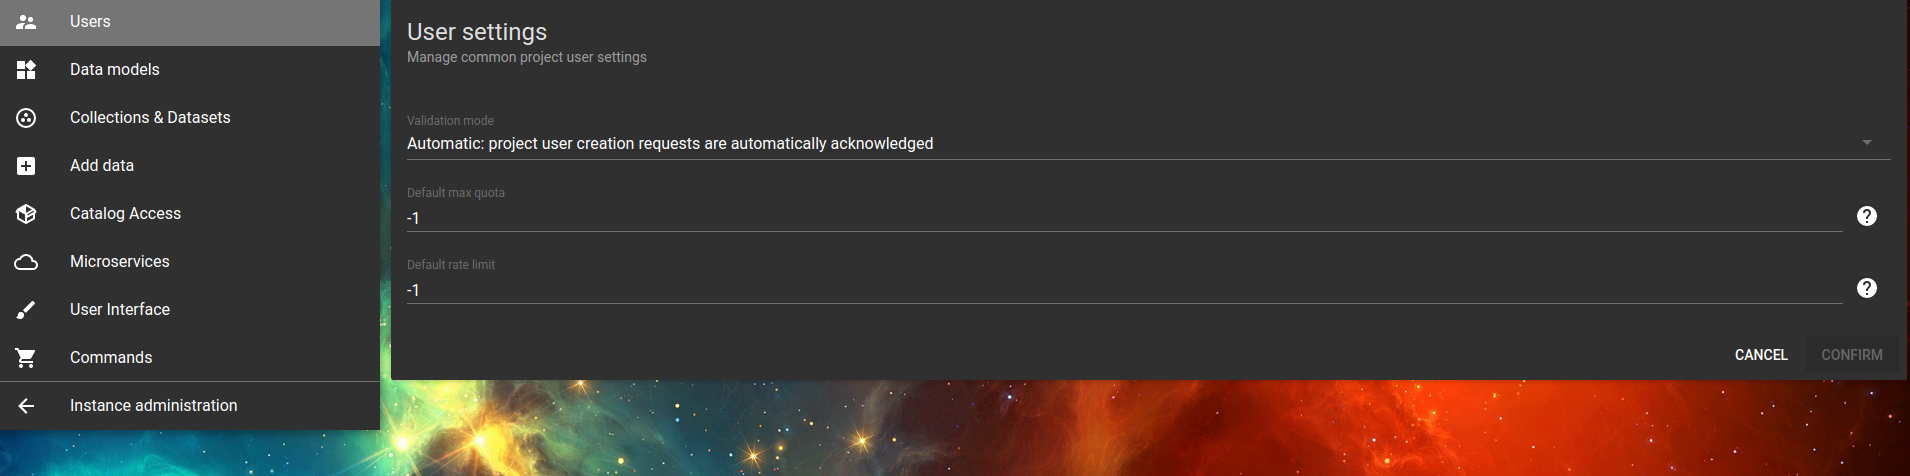
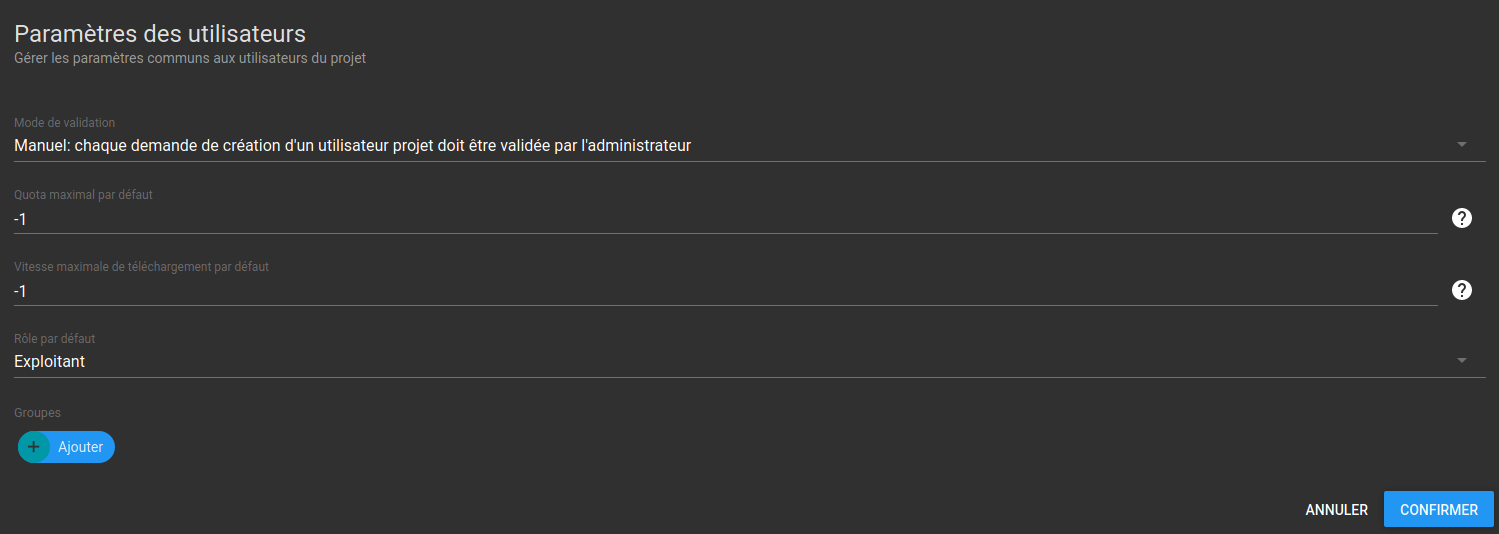
Modification after pm23

diff --git a/sidebars.js b/sidebars.js
@@ -37,6 +37,7 @@ module.exports = {
         "user-documentation/2-project-configuration/project-configuration-introduction",
         "user-documentation/2-project-configuration/project-configuration-users",
         "user-documentation/2-project-configuration/project-configuration-users-authentication",
+        "user-documentation/2-project-configuration/project-configuration-users-authentication-openid",
         "user-documentation/2-project-configuration/project-configuration-user-interface",
         "user-documentation/2-project-configuration/project-configuration-microservices",
         "user-documentation/2-project-configuration/project-configuration-storages",

diff --git a/docs/user-documentation/2-project-configuration/users.md b/docs/user-documentation/2-project-configuration/users.md
@@ -21,13 +21,15 @@ Si vous êtes administrateur du projet, vous pouvez paramétrer le type de valid
 </div>
 Réglez les paramètres suivants :
 
-- **_Validation mode_**
-  - **_Automatic_**, l'approbation de chaque nouvelle demande de compte est automatique et ne nécessite pas votre accord.
+- **_Mode de validation_**
+  - **_Automatique_**, l'approbation de chaque nouvelle demande de compte est automatique et ne nécessite pas votre accord.
   - **_Manuel_**, vous déciderez de valider manuellement chaque demande d'inscription
-- **_Default max quota_**, attribuez par défaut le nombre de téléchargements de données autorisé pour tous les utilisateurs
+- **_Quota maximal par défaut_**, attribuez par défaut le nombre de téléchargements de données autorisé pour tous les utilisateurs
   - les valeurs possibles sont -1, pour un nombre illimité, 0, pour aucun téléchargement ou n'importe quel nombre entier positif.
-- **_Default rate limit_** déterminez par défaut le nombre de téléchargements de données simultanés autorisés
+- **_Vitesse maximale de téléchargement par défaut_** déterminez par défaut le nombre de téléchargements de données simultanés autorisés
   - les valeurs possibles sont -1, pour un nombre illimité, 0, pour aucun téléchargement simultané ou n'importe quel nombre entier positif.
+- **_Rôle par défaut_** déterminez par défaut le rôle appliqué à un utilisateur se connectant via un Service Provider
+- **_Groupes_** déterminez par défaut les groupes d'accès appliqués à un utilisateur se connectant via un Service Provider
 
 Appuyez ensuite sur le bouton **_Confirm_** pour valider la configuration.
 
@@ -137,4 +139,14 @@ La suppression d'un utilisateur n'entraîne que son retrait de la liste des util
 ### <img src="/images/user-documentation/doc-icons/right-arrow.png" alt="arrow" height="12"/> Utilisation de comptes utilisateur externes
 
 REGARDS permet la connexion d'utilisateurs depuis un système extérieur. Il ne gérera ainsi pas les comptes en interne.
-L'unique plugin fourni par défaut permet la connexion à un annuaire LDAP. Pour ajouter ce système d'authentification, cliquez sur le bouton **_Add_** de la carte **_Authentication system_** et configurez-le. Vous pourrez ensuite le retrouver dans la liste des systèmes d'authentification.
+
+<div align="center">
+  <img src="/images/user-documentation/2-project-configuration/users/authentication-list.png" alt="authentication systems" width="800"/>
+</div>
+
+La connexion peut se faire par le biais d'un système d'authentification déporté (Identity provider) ou externalisé (Service provider).
+
+  - L'unique plugin d'authentification déporté fourni par défaut permet la connexion à un annuaire LDAP.
+  - L'unique plugin d'authentification externe fourni par défaut permet la connexion par [OpenID Connect](openid).
+
+Pour ajouter un système d'authentification, cliquez sur le bouton **_Liste_** de la carte **_Authentication system_**, choisissez **_Ajouter un identity provider_** ou **_Ajouter un service provider_** et configurez-le. Vous pourrez ensuite le retrouver dans la liste des systèmes d'authentification.

diff --git a/docs/user-documentation/2-project-configuration/users-authentication-openid.md b/docs/user-documentation/2-project-configuration/users-authentication-openid.md
@@ -1,0 +1,28 @@
+---
+id: project-configuration-users-authentication-openid
+title: Configure OpenID Connect
+slug: /user-guide/project-configuration/users/openid
+---
+
+_Configurez les paramètres de connexion à un Service provider pour authentification via OpenID Connect_.
+
+<div align="center">
+  <img src="/images/user-documentation/2-project-configuration/users/service-provider-openid-connect.png" alt="OpenID Connect" width="800"/> 
+</div>
+
+L'écran **_Ajouter un nouveau fournisseur de service_** est découpé en deux parties :
+
+- **_Paramètres généraux_**
+  - **_Nom_** est le nom choisi pour ce Service provider. Ce nom devra être répercuté dans le champs "Oauth2 redirect URI".
+  - **_URL_** est l'URL du formulaire de login du service d'authentification externe. L'URL doit être complète, c'est à dire qu'elle doit inclure l'ID client, l'URL de redirection vers Regards ou autres paramètres requis pas le fournisseur de service d'authentification externe.
+- **_Paramètres spécifiques au plugin OpenID Connect_**
+  - **_Libillé_** est un alias donné à la configuration du plugin OpenID Connect créée pour ce Service provider.
+  - **_Client Id_** est l'identifiant client répertoriant Regards en tant qu'utilisateur du Service provider auprès sur fournisseur de service d'authentification externe.
+  - **_Client Secret_** est le code secret associé à l'identifiant client ci-dessus, délivré par le fournisseur de service d'authentification externe.
+  - **_"token" endpoint URL_** est l'URL du endpoint HTTP du service d'authentification externe permettant de récupérer un token Oauth2.
+  - **_Oauth2 redirect URI_** est l'URL vers la page de redirection utilisée par le fournisseur de service externe pour renvoyer le navigateur de l'utilisateur sur Regards après une authentification réussie.
+  - **_"user info" endpoint URL_** est l'URL du endpoint HTTP du service d'authentification externe permettant de récupérer les informations de l'utilisateur connecté.
+  - **_Email mapping field_** est le nom du champs JSON présent dans la réponse à un appel au endpoint "user info" permettant à Regards de récupérer l'adresse email de l'utilisateur.
+  - **_Firstname mapping field_** est le nom du champs JSON présent dans la réponse à un appel au endpoint "user info" permettant à Regards de récupérer le prénom de l'utilisateur.
+  - **_Lastname mapping field_** est le nom du champs JSON présent dans la réponse à un appel au endpoint "user info" permettant à Regards de récupérer le nom de l'utilisateur.
+  - **_"revoke" endpoint URL_** est l'URL du endpoint HTTP du service d'authentification externe permettant d'invalider le token Oauth2 en fin de sessions, lors d'une déconnexion de l'utilisateur.

diff --git a/docs/user-documentation/2-project-configuration/users-authentication.md b/docs/user-documentation/2-project-configuration/users-authentication.md
@@ -15,4 +15,14 @@ _Gérez les différentes authentications permises depuis le menu ***Users*** de 
 ## <img src="/images/user-documentation/doc-icons/right-arrow.png" alt="arrow" height="12"/> Utilisation de comptes utilisateur externes
 
 REGARDS permet la connexion d'utilisateurs depuis un système extérieur. Il ne gérera ainsi pas les comptes en interne.
-L'unique plugin fourni par défaut permet la connexion à un annuaire LDAP. Pour ajouter ce système d'authentification, cliquez sur le bouton **_Add_** de la carte **_Authentication system_** et configurez-le. Vous pourrez ensuite le retrouver dans la liste des systèmes d'authentification.
+
+<div align="center">
+  <img src="/images/user-documentation/2-project-configuration/users/authentication-list.png" alt="authentication systems" width="800"/>
+</div>
+
+La connexion peut se faire par le biais d'un système d'authentification déporté (Identity provider) ou externalisé (Service provider).
+
+  - L'unique plugin d'authentification déporté fourni par défaut permet la connexion à un annuaire LDAP.
+  - L'unique plugin d'authentification externe fourni par défaut permet la connexion par [OpenID Connect](openid).
+
+Pour ajouter un système d'authentification, cliquez sur le bouton **_Liste_** de la carte **_Authentication system_**, choisissez **_Ajouter un identity provider_** ou **_Ajouter un service provider_** et configurez-le. Vous pourrez ensuite le retrouver dans la liste des systèmes d'authentification.
